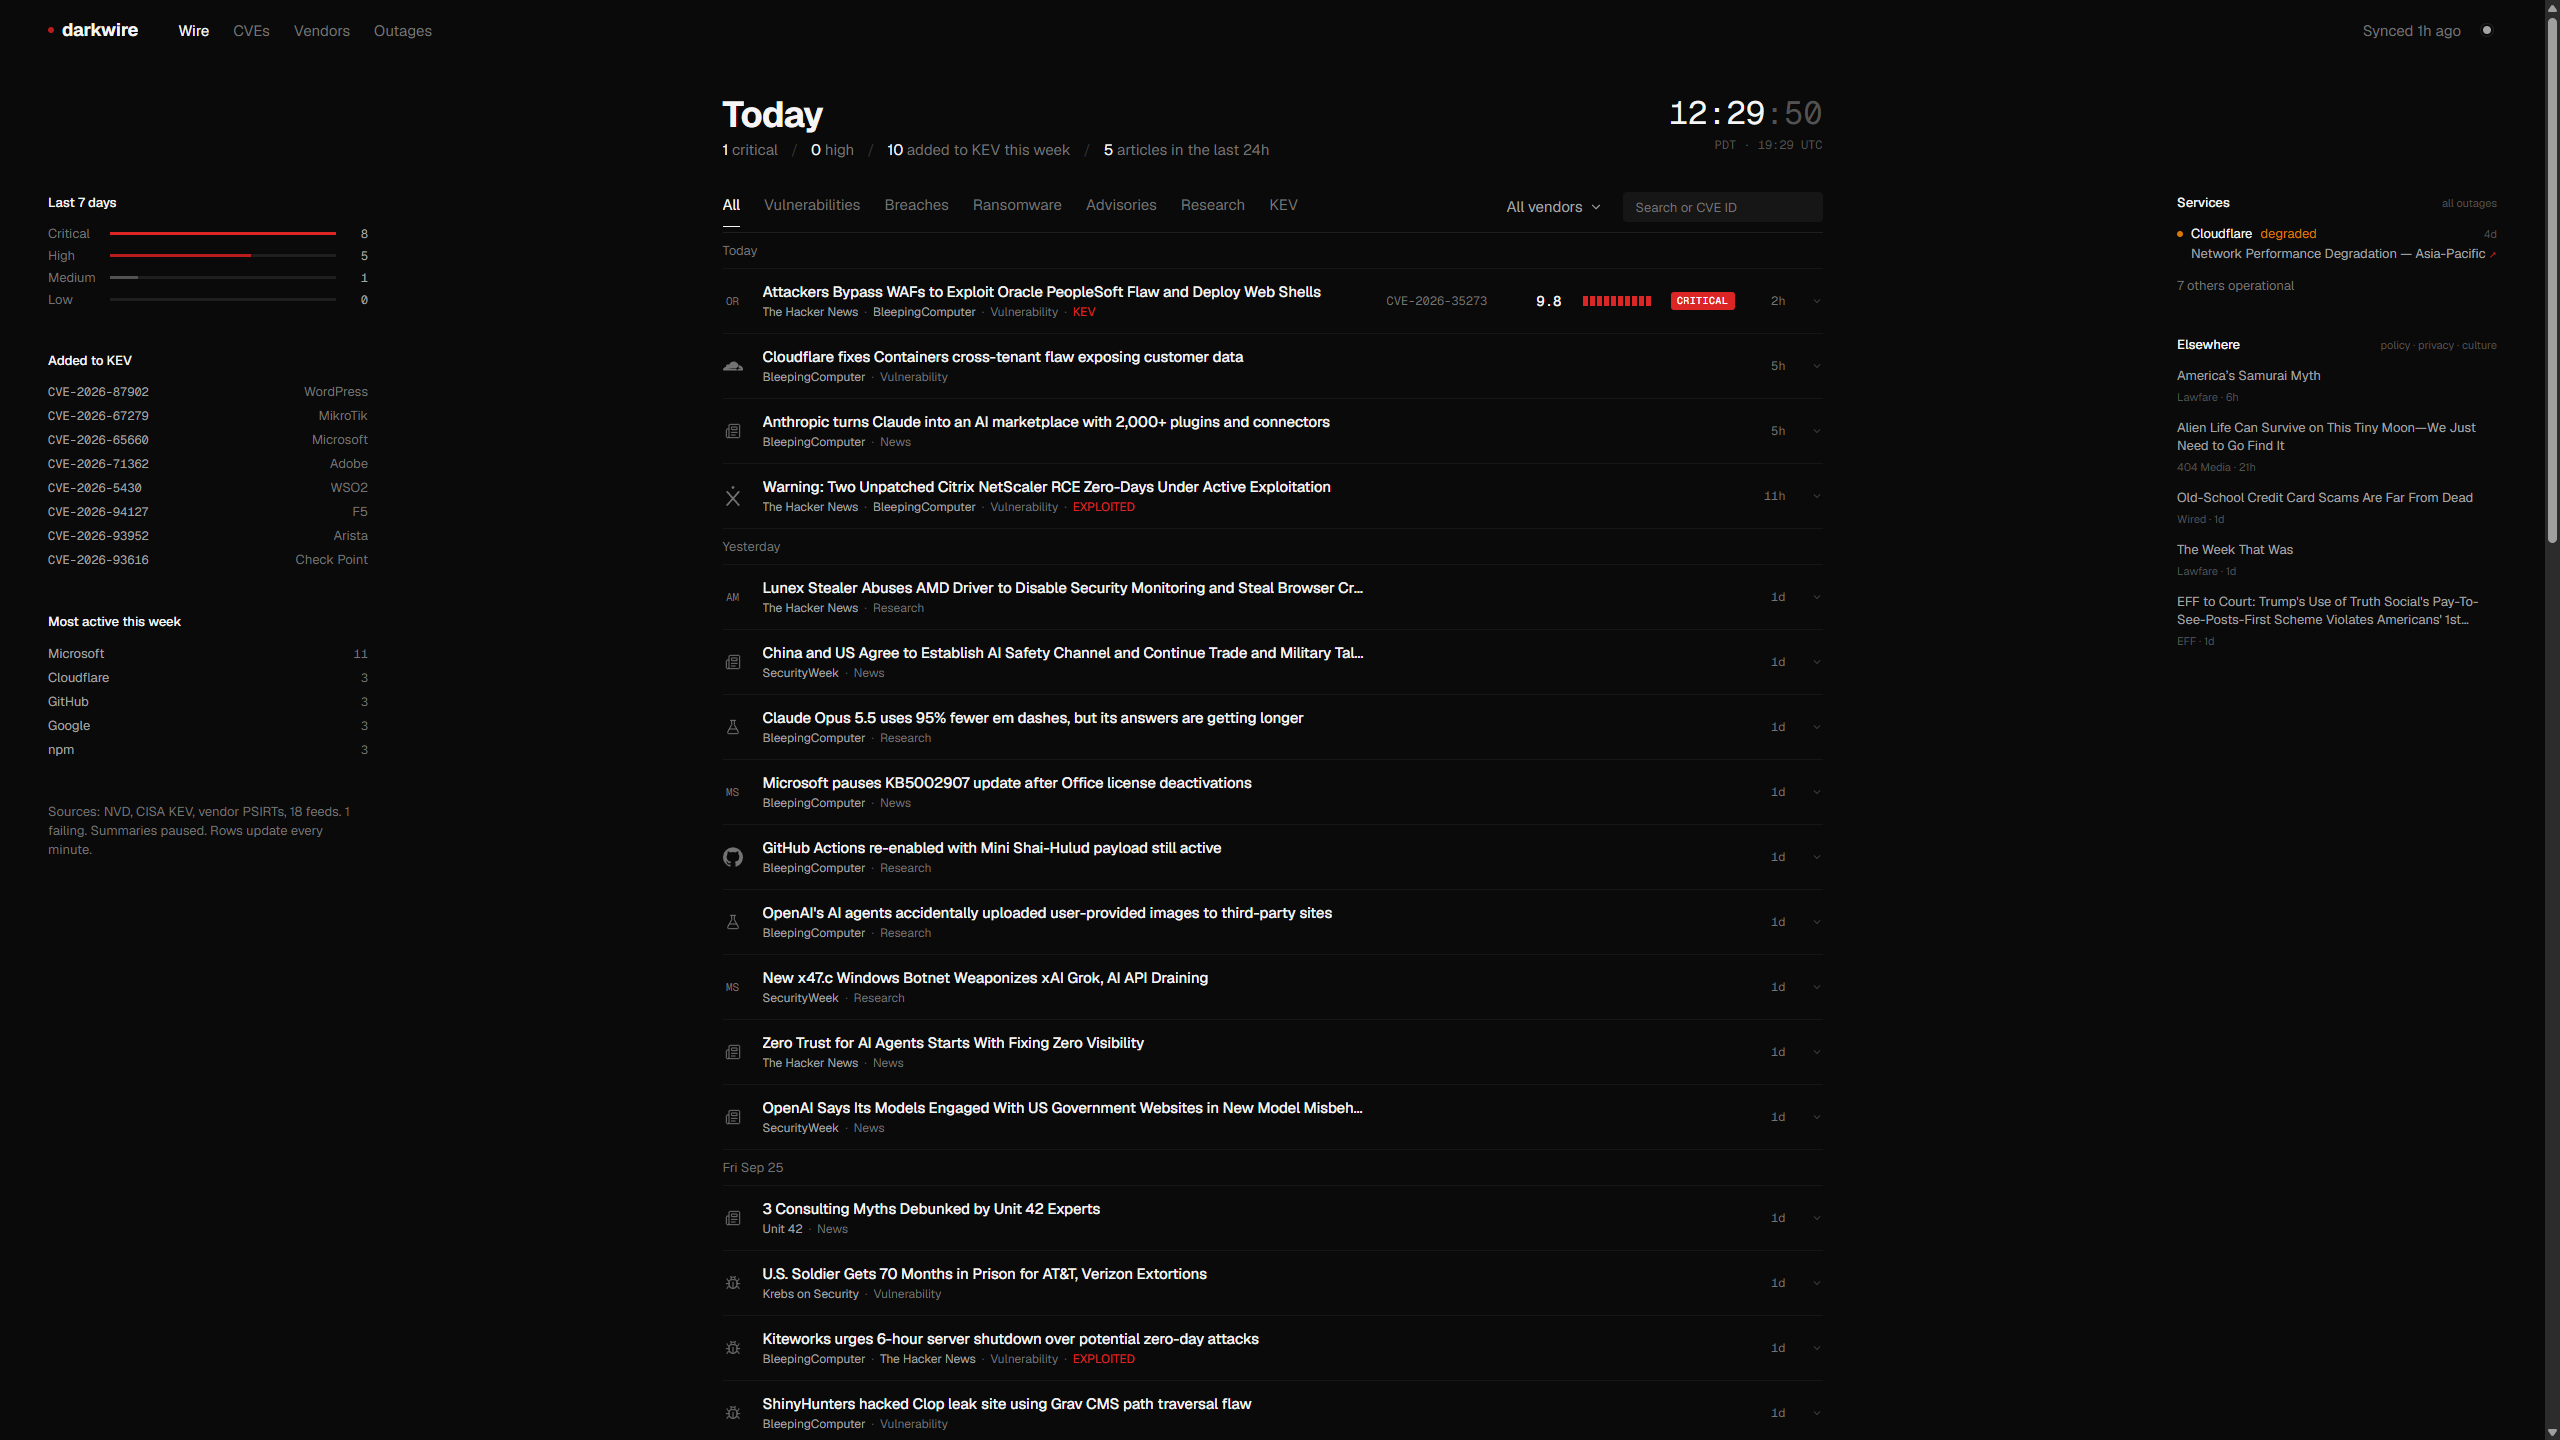
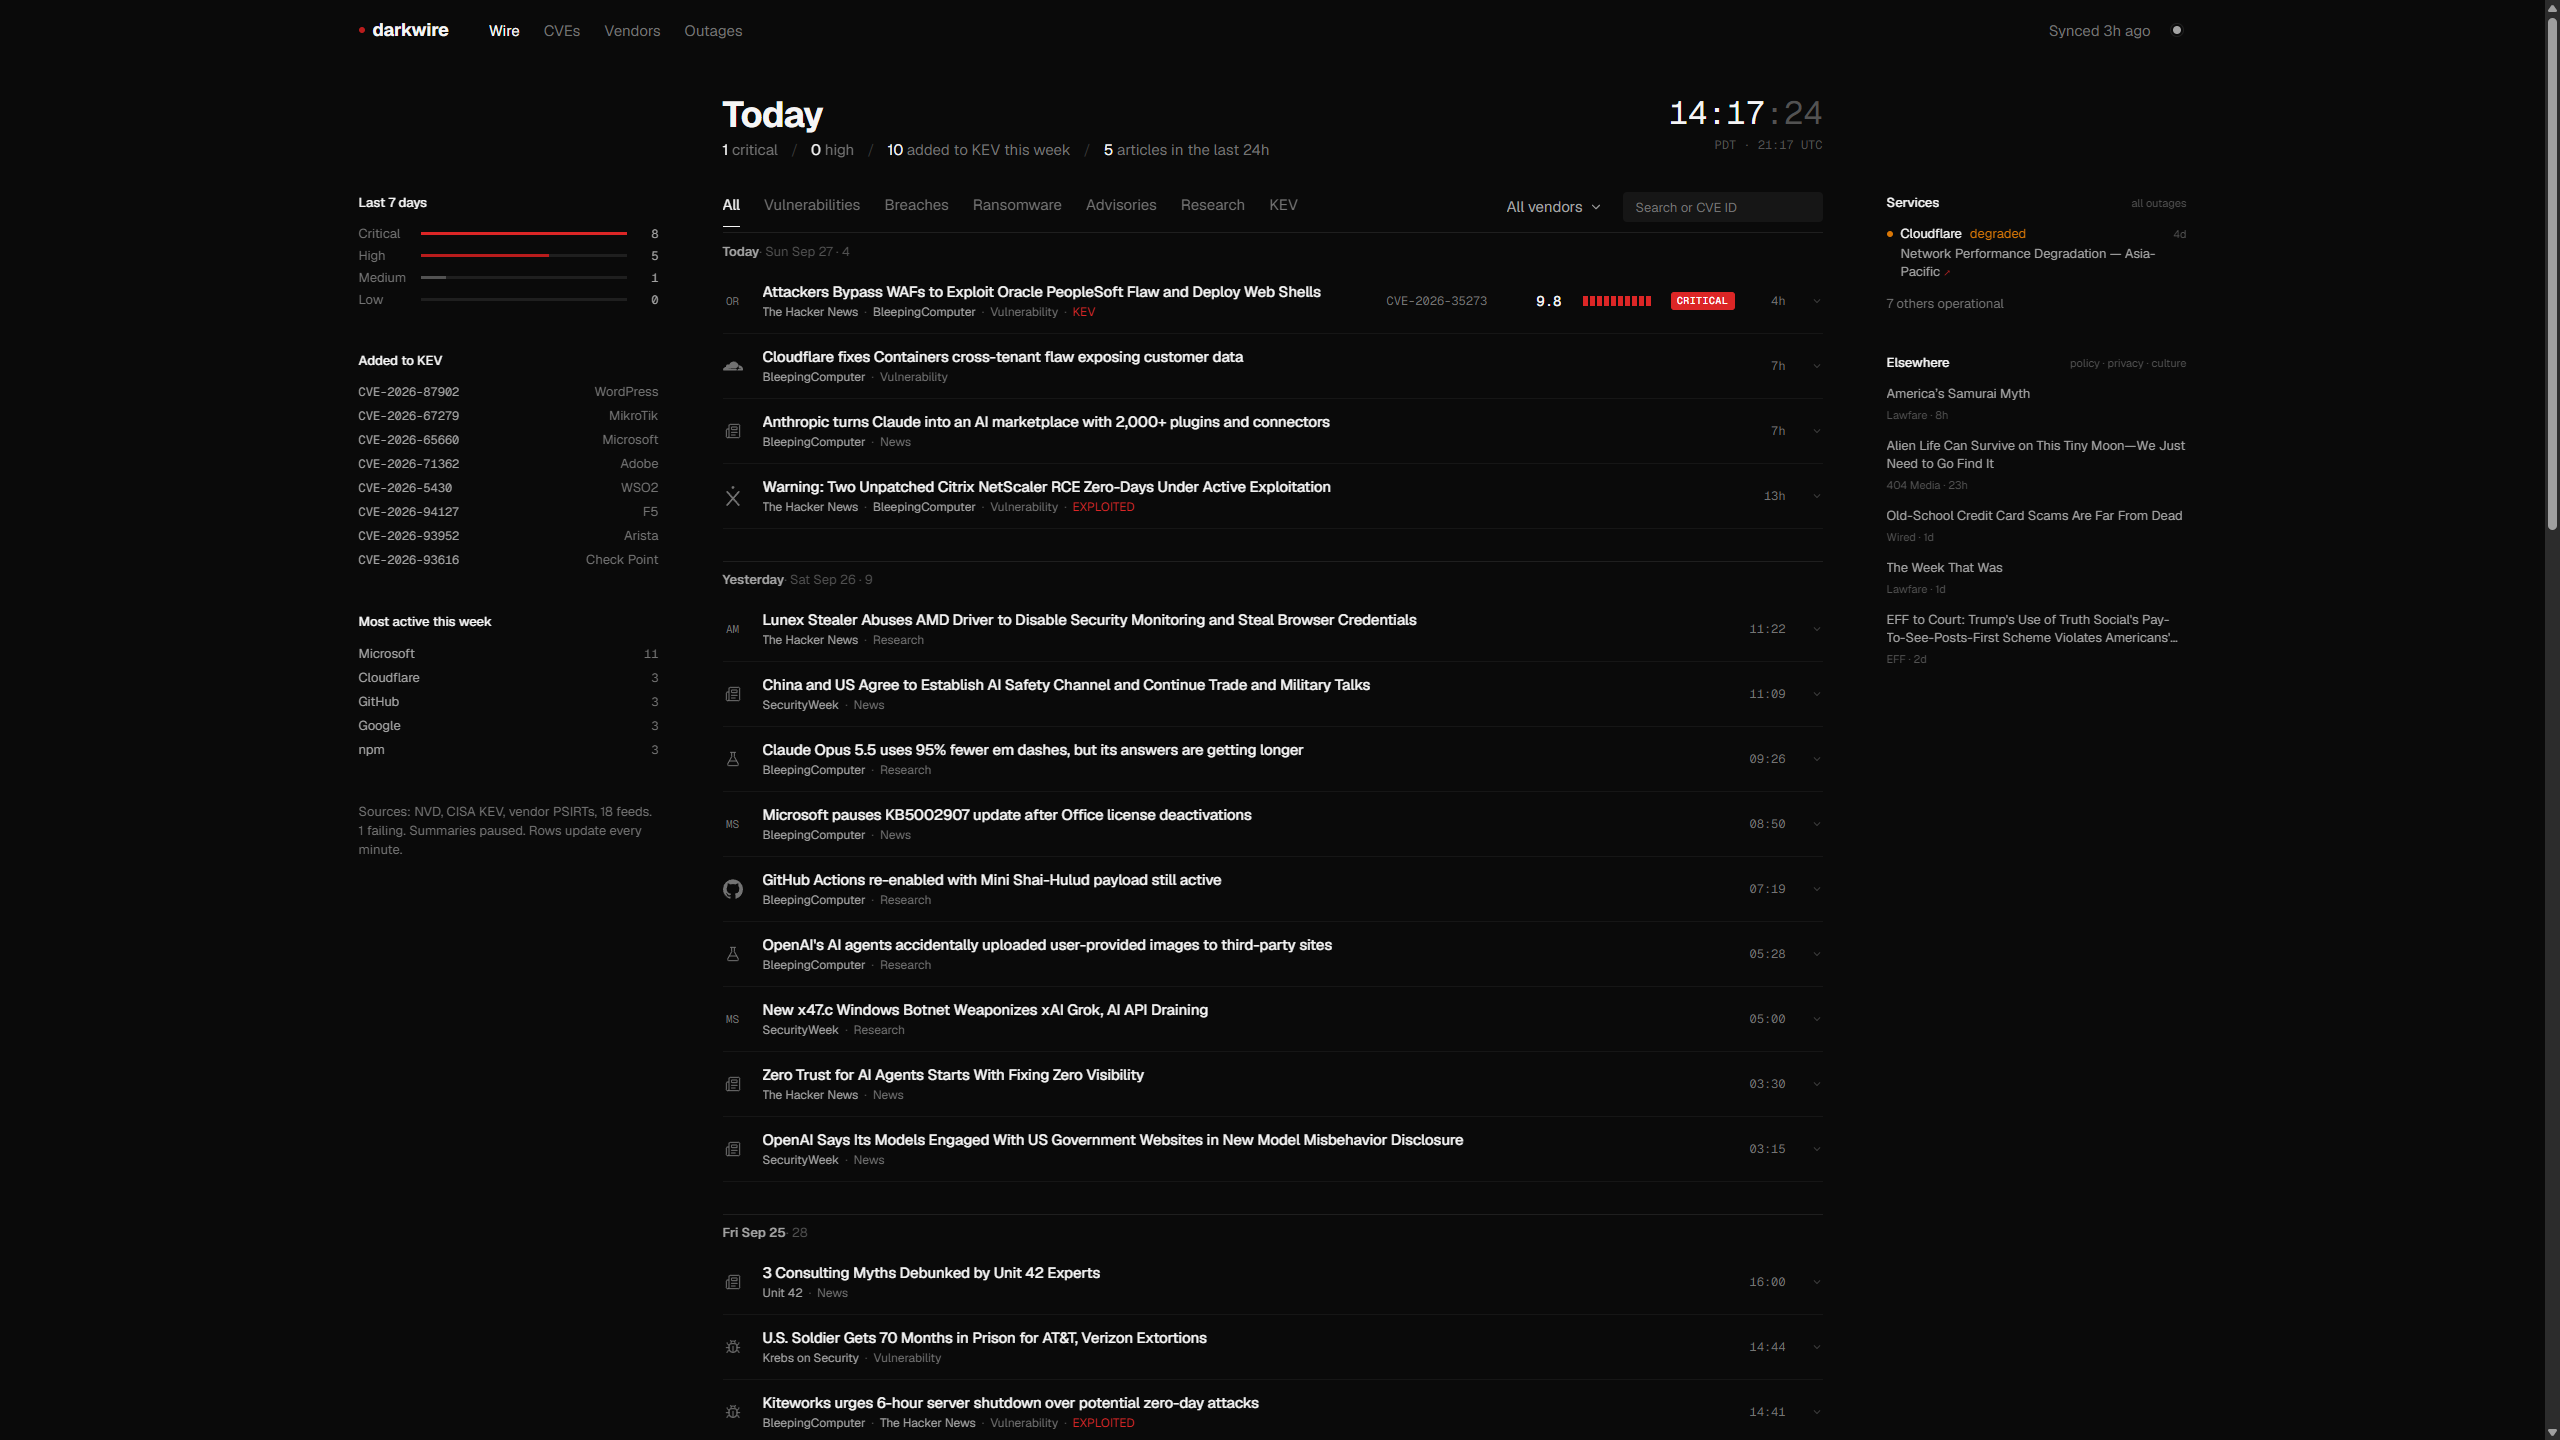
Feed rows: headline through empty data columns, 2-line wrap on narrow/portrait; sticky rails

diff --git a/web/components/wire/WireBoard.tsx b/web/components/wire/WireBoard.tsx
@@ -22,6 +22,7 @@ import {
   type Severity,
 } from "@/lib/api"
 import { useDots } from "@/lib/dots"
+import { useStickyTop } from "@/lib/sticky"
 import { usePrefs } from "@/lib/prefs"
 import { isImportant } from "@/lib/kev"
 import { apply as applyDiff, changedSince, cursorOf, diff, LIVE_POLL_MS } from "@/lib/live"
@@ -78,6 +79,12 @@ export function WireBoard({ initial }: { initial: WireData }) {
   const list = useRef<HTMLDivElement>(null)
   const fit = useFitCount(list)
   const { dots, add: addDots, clear: clearDot } = useDots()
+  // Rails stick while the feed scrolls (lib/sticky.ts). Under 1200px the rail stacks below the
+  // feed and is not sticky (no position: sticky there), so its computed top does nothing.
+  const leftRail = useRef<HTMLElement>(null)
+  const rightRail = useRef<HTMLElement>(null)
+  useStickyTop(leftRail)
+  useStickyTop(rightRail)
   const now = useNow()
   // New rows found while scrolled down, waiting for "N new ↑" or a scroll back to the top.
   const [pending, setPending] = useState<FeedItem[]>([])
@@ -294,13 +301,14 @@ export function WireBoard({ initial }: { initial: WireData }) {
           (feed | Elsewhere | stats) from 2200px. The feed is fluid; no page cap. */}
       {/* Under 1200px: feed, then the rail stacked below it. 1200-2199px: feed plus one 340px
           rail on the right, 48px apart. 2200px+: one centered block (page-frame), stats rail 300
-          | 64 | feed (max 1100) | 64 | Services and Elsewhere 300. Rails start level with the tabs
-          row. The rail sections are placed with CSS order per range. */}
-      <div className="min-[1200px]:flex min-[1200px]:gap-12 min-[2200px]:gap-16">
+          | 64 | feed (max 1100) | 64 | Services and Elsewhere 300. Rails are sticky and start level
+          with the tabs row. The rail sections are placed with CSS order per range. */}
+      <div className="min-[1200px]:flex min-[1200px]:items-start min-[1200px]:gap-12 min-[2200px]:gap-16">
         <aside
+          ref={leftRail}
           data-chrome
           aria-label="This week"
-          className="hidden w-[300px] shrink-0 pt-[133px] text-[13px] min-[2200px]:block"
+          className="sticky mt-[133px] hidden w-[300px] shrink-0 text-[13px] min-[2200px]:block"
         >
           <div className="flex flex-col gap-10">
             <LastSevenDays status={status} severity={railSeverity} onSeverity={onRailSeverity} />
@@ -497,7 +505,8 @@ export function WireBoard({ initial }: { initial: WireData }) {
         <aside
           data-chrome
           aria-label="Context"
-          className="mt-16 text-[13px] min-[1200px]:mt-0 min-[1200px]:w-[340px] min-[1200px]:shrink-0 min-[1200px]:pt-[133px] min-[2200px]:w-[300px]"
+          ref={rightRail}
+          className="mt-16 text-[13px] min-[1200px]:sticky min-[1200px]:mt-[133px] min-[1200px]:w-[340px] min-[1200px]:shrink-0 min-[2200px]:w-[300px]"
         >
           {/* Orders: under 1200 Elsewhere, Most active, Added to KEV, Last 7 days, Sources (Services
               sits above the feed). 1200-2199 Services, Added to KEV, Last 7 days, Elsewhere, Most

diff --git a/web/components/FeedRow.tsx b/web/components/FeedRow.tsx
@@ -67,6 +67,7 @@ export function FeedRow({
     initialDetail ? { state: "ready", item: initialDetail } : { state: "idle" },
   )
   const detailId = `row-${item.id}-detail`
+  const hasData = item.cve_id !== null || item.cvss !== null || hasBadge(item)
 
   function toggle() {
     const next = !expanded
@@ -95,7 +96,7 @@ export function FeedRow({
     >
       <div
         onClick={onRowClick}
-        className="flex cursor-pointer items-start py-3 md:h-16 md:items-center md:py-0"
+        className="flex cursor-pointer items-start py-3 md:min-h-16 md:items-center md:py-2.5 one-line-rows:h-16 one-line-rows:py-0"
       >
         <VendorMark item={item} inStack={inStack} />
 
@@ -104,7 +105,7 @@ export function FeedRow({
           <a
             href={item.primary_url}
             {...EXTERNAL}
-            className="line-clamp-2 text-[15px] leading-5 font-medium tracking-[-0.01em] text-fg outline-none focus-visible:underline md:block md:truncate"
+            className="line-clamp-2 text-[15px] leading-5 font-medium tracking-[-0.01em] text-fg outline-none focus-visible:underline one-line-rows:block one-line-rows:truncate"
           >
             {item.headline}
           </a>
@@ -120,10 +121,15 @@ export function FeedRow({
         <div className="hidden shrink-0 items-center md:flex">
           {/* Dropped when the feed column is narrow (rail beside it at ~1000-1300px), so the
               headline keeps room. Needs an @container ancestor; without one it always shows. */}
-          <span className="w-[128px] font-mono text-xs text-muted @max-[760px]:hidden">{item.cve_id}</span>
-          <Score item={item} className="w-[47px] text-right" />
-          <Bar item={item} className="ml-[21px]" />
-          <Badge item={item} className="ml-5" />
+          {/* No CVE, score, bar or badge: the empty columns go, and the headline runs to the age. */}
+          {hasData && (
+            <>
+              <span className="w-[128px] font-mono text-xs text-muted @max-[760px]:hidden">{item.cve_id}</span>
+              <Score item={item} className="w-[47px] text-right" />
+              <Bar item={item} className="ml-[21px]" />
+              <Badge item={item} className="ml-5" />
+            </>
+          )}
           <Age iso={item.last_event_at} clock={clockAge} className="w-[51px] text-right" />
         </div>
 
@@ -280,6 +286,11 @@ const BADGE: Record<string, string> = {
   medium: "border-outline-medium text-fg-2",
   low: "border-outline-muted text-muted",
   muted: "border-outline-muted text-muted",
+}
+
+function hasBadge(item: FeedItem): boolean {
+  const severity = item.severity && item.severity !== "none" ? item.severity : null
+  return severity !== null || item.category === "breach" || item.category === "ransomware"
 }
 
 function Badge({ item, className }: { item: FeedItem; className?: string }) {

diff --git a/web/lib/sticky.ts b/web/lib/sticky.ts
@@ -1,0 +1,24 @@
+"use client"
+
+import { useEffect, type RefObject } from "react"
+
+/** Sticky rails. A rail shorter than the window pins `gap` below the top. A taller one gets a
+ * negative top, so it scrolls with the page until its bottom is `gap` above the window's
+ * bottom, then holds there. Recomputed when the rail or the window resizes. */
+export function useStickyTop(ref: RefObject<HTMLElement | null>, gap = 24) {
+  useEffect(() => {
+    const el = ref.current
+    if (!el) return
+    const update = () => {
+      el.style.top = `${Math.min(gap, window.innerHeight - el.offsetHeight - gap)}px`
+    }
+    update()
+    const observer = new ResizeObserver(update)
+    observer.observe(el)
+    window.addEventListener("resize", update)
+    return () => {
+      observer.disconnect()
+      window.removeEventListener("resize", update)
+    }
+  }, [ref, gap])
+}

diff --git a/web/app/globals.css b/web/app/globals.css
@@ -2,6 +2,10 @@
 /* data-open / data-closed / data-checked variants used by the shadcn primitives. */
 @import "shadcn/tailwind.css";
 
+/* Feed headlines stay on one line only on wide landscape screens; narrower and portrait
+   screens (1200-1600px wide, 1080x1920, 1440x2560) wrap them to at most two. */
+@custom-variant one-line-rows (@media (min-width: 1601px) and (orientation: landscape));
+
 /* Palette from CLAUDE.md. Components use these through the Tailwind tokens below
    (bg-bg, text-fg-2, border-hairline, ...). Never hardcode colors in components. */
 :root {

diff --git a/CLAUDE.md b/CLAUDE.md
@@ -70,6 +70,8 @@ Built for wall displays as much as laptops. Primary targets: 1920x1080 and 2560x
                    [source · source · source · category · KEV]
 ```
 
+- Rows with no CVE ID, score, bar or badge drop those empty columns: the headline runs to the age column. Rows with data keep the aligned columns.
+- Headlines are one line (ellipsis) only on wide landscape screens (over 1600px wide, landscape); narrower and portrait screens (1200-1600px wide, 1080x1920, 1440x2560) wrap them to at most two lines, and the row grows from 64px.
 - Vendor mark: `/public/vendors/{slug}.svg`, monochrome, currentColor at `--muted`, 20px, no circle. Fallback: Lucide category icon (shield-alert for breach, bug for vuln, file-text for advisory, flask for research).
 - Headline links to the primary source, `target="_blank" rel="noopener noreferrer"`.
 - Meta line: every source name is a link to that outlet's article, same 12px, `--fg-2`. One name per outlet: an outlet with several articles in the cluster links to its newest. Cap 4 visible, then `+N`. Then category, then `KEV` in `--critical` if listed, else `EXPLOITED` in `--critical` when a headline says zero-day / actively exploited / in the wild and no CVE is known. Separator is `·`.
@@ -130,6 +132,8 @@ Three layouts by viewport width:
 - 2200px and wider: three columns in one centered block, 64px apart. Left rail 300px: Last 7 days, Added to KEV, Most active this week, Sources line. Feed flexible, max 1100px. Right rail 300px: Services, Elsewhere.
 - 1200 to 2199px: feed plus one 340px right rail, 48px apart: Services, Added to KEV, Last 7 days, Elsewhere, Most active this week, Sources line.
 - Under 1200px: the rail stacks below the feed: Elsewhere, Most active, Added to KEV, Last 7 days, Sources line (Services sits above the feed).
+
+Rails are `position: sticky` in the two- and three-column layouts: a rail shorter than the window pins 24px from the top; a taller one scrolls with the page until its bottom is 24px above the window's bottom, then holds (`web/lib/sticky.ts`). The nav is not sticky, so rails pin to the window top.
 
 Sections:
 
